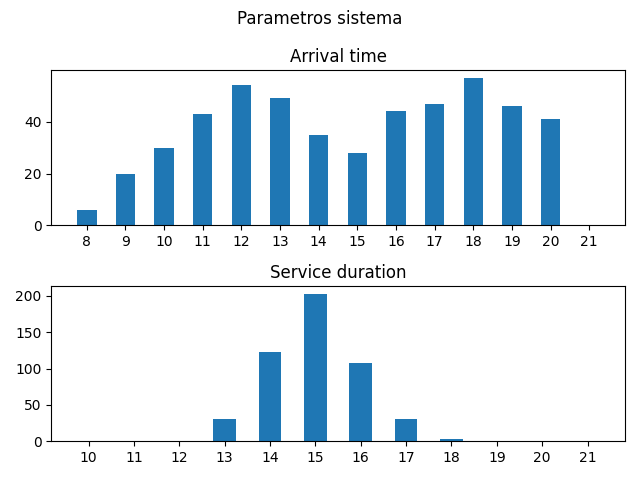
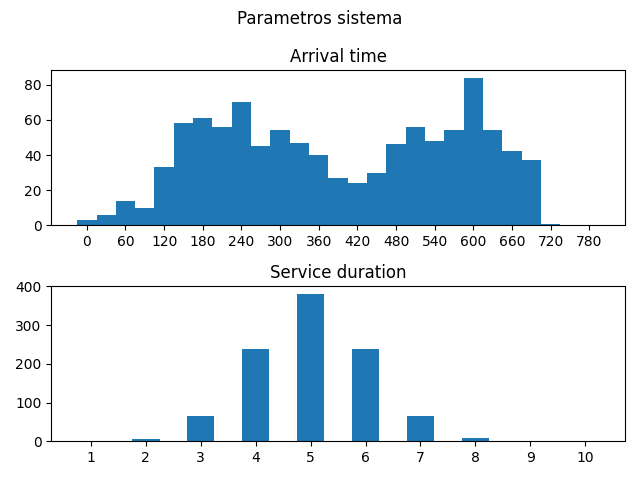
Solving problems with units of time

diff --git a/util.py b/util.py
@@ -12,14 +12,14 @@ class Plot:
     def plot_simulation_values(clients: List[ClientType]):
         fig, ax = plt.subplots(2)
         fig.suptitle("Parametros sistema")
-        ax[0].hist([c.arrival_time for c in clients],bins=np.arange(0, 14, 0.5), align='left')
+        ax[0].hist([c.arrival_time for c in clients],bins=np.arange(0, 14*60, 30), align='left')
         ax[0].set_title("Arrival time")
-        ax[0].set_xticks(np.arange(0, 14, 1))
-        ax[0].set_xticklabels(np.arange(8, 22, 1))
-        ax[1].hist([c.service_duration for c in clients], bins=np.arange(10, 22, 0.5), align='left' )
+        ax[0].set_xticks(np.arange(0, 14*60, 60))
+        ax[0].set_xticklabels(np.arange(0, 14*60, 60))
+        ax[1].hist([c.service_duration for c in clients], bins=np.arange(1, 11, 0.5), align='left' )
         ax[1].set_title("Service duration")
-        ax[1].set_xticks(np.arange(10, 22, 1))
-        ax[1].set_xticklabels(np.arange(10, 22, 1))
+        ax[1].set_xticks(np.arange(1, 11, 1))
+        ax[1].set_xticklabels(np.arange(1, 11, 1))
         fig.tight_layout()
 
         save_path = os.path.join(os.getcwd(), "results", "datos-sistema.png")
@@ -50,23 +50,10 @@ class Random:
         """
         Generate N int values, based on a normal distribution in the range [min, max].
         """
-        # When the values are cleaned (set as int and limited to the
-        # valid range) the distribution may not be normal.
-        # Will try again while the distribution is not normal
-        iter = 0
-        while True:
-            s = np.rint(np.random.normal(mean, deviation, amount * 2))
-            cleaned = [i for i in s if i >= min and i <= max]
-            cleaned = cleaned[:amount]
-            if self.is_normal_distribution(cleaned):
-                return cleaned
 
-            if iter == 10000:
-                raise Exception("reached: Service time generation limit")
-            iter += 1
+        s = np.rint(np.random.normal(mean, deviation, amount * 2))
+        cleaned = [i for i in s if i >= min and i <= max]
+        cleaned = cleaned[:amount]
+            
+        return cleaned
 
-    def is_normal_distribution(self, values, p_value=0.05) -> bool:
-        _, pvalue = spy.chisquare(values)
-        print("La distribucion es normal?")
-        print(pvalue)
-        return pvalue > p_value

diff --git a/simulation.py b/simulation.py
@@ -7,11 +7,12 @@ from carrefour import Carrefour
 from client import Client, ClientType
 from coto import Coto
 from util import Random
+from util import Plot
 
 MAX_SERVICE_TIME = 100
 MAX_ARRIVAL_TIME = 100
 # This is just a security flag
-MAX_WORKING_TIME = (MAX_SERVICE_TIME + MAX_ARRIVAL_TIME) * 2
+MAX_WORKING_TIME = 720
 
 
 class Simulation:
@@ -42,7 +43,7 @@ class Simulation:
             mean, deviation, min, max, amount=self.n_clients
         )
         arrivals = self.init_arrival_times(
-            total=self.n_clients, min_arrival=0, max_arrival=12
+            total=self.n_clients, min_arrival=0, max_arrival=12*60
         )
         for i in range(len(services)):
             c = Client(arrival_time=arrivals[i], service_time=services[i])
@@ -68,15 +69,15 @@ class Simulation:
         iter = 0
         while True:
             morning = Random().generate_normal_distribution(
-                mean=3.647,
-                deviation=1.9,
+                mean=240,
+                deviation=100,
                 amount=int(total),
                 min=min_arrival,
                 max=max_arrival,
             )
             afternoon = Random().generate_normal_distribution(
-                mean=10,
-                deviation=1.9,
+                mean=600,
+                deviation=100,
                 amount=int(total),
                 min=min_arrival,
                 max=max_arrival,
@@ -95,6 +96,7 @@ class Simulation:
 
     def run(self):
         coto_copy = copy.deepcopy(self.clients)
+        Plot.plot_simulation_values(coto_copy)
         coto = Coto(clients=coto_copy, n_queues=self.n_lines, max_time=MAX_WORKING_TIME)
         self.results["coto"] = coto.run()
 

diff --git a/coto.py b/coto.py
@@ -9,6 +9,8 @@ class Coto:
         self.max_time = max_time
         self.clients = clients
         self.dropped_clients = []
+        # Count the number of queues that are not being used at each time t
+        self.useless_queues_in_time = []
 
         # We create a list of queues where each queue is a list of clients
         self.queues: List[List[Client]] = [[] for _ in range(n_queues)]
@@ -62,19 +64,20 @@ class Coto:
                     queue.pop(idx)
         return
     
-    def any_queue_has_clients(self):
-        return len([queue for queue in self.queues if len(queue) > 0]) > 0
+    # def any_queue_has_clients(self):
+    #     return len([queue for queue in self.queues if len(queue) > 0]) > 0
+    
+    # def useless_queues(self):
+    #     return len([queue for queue in self.queues if len(queue) > 0])
 
     def run(self):
 
         for _ in range(self.max_time):
-            if len(self.clients) > 0 and self.any_queue_has_clients():
-
+            if len(self.clients) > 0:# and self.any_queue_has_clients():
                 # Add client to the queue with less clients
                 self.add_client_to_queue(self.clients)
                 # Drop the clients that got tired of waiting from the queues
                 self.drop_clients()
-
                 # Check if the clients in the queues are done and attend the first client
                 for queue in self.queues:
                     self.attend_client(queue)

diff --git a/main.py b/main.py
@@ -4,6 +4,7 @@ import numpy as np
 
 from client import ClientType
 from simulation import Simulation
+from util import Plot
 
 
 def get_means_from_values(vs: List[List[int]]) -> List[float]:
@@ -30,7 +31,7 @@ def run_with_variable_clients(
         simulation = Simulation(
             n_clients=n, n_lines=n_queues, service_init_hour=0, service_end_hour=12
         )
-        simulation.init_clients(service_time_mean, 1, 5, 30)
+        simulation.init_clients(service_time_mean, 1, 1, 9)
         simulation.run()
         carrefour_clients.append(simulation.results["carrefour"])
         coto_clients.append(simulation.results["coto"])
@@ -51,11 +52,13 @@ def run_with_variable_clients(
     print(f"Tiempos: {n_clients}")
     print(f"Coto: \n")
     print(coto_clients)
+    print(len(coto_clients[0]))
     print("--------------------------------------")
+
 
     return
 
 
 if __name__ == "__main__":
-
-    run_with_variable_clients([10, 20, 30], 2, 15)
+    #Clients, queues, service time mean
+    run_with_variable_clients([1000], 1, 5)
